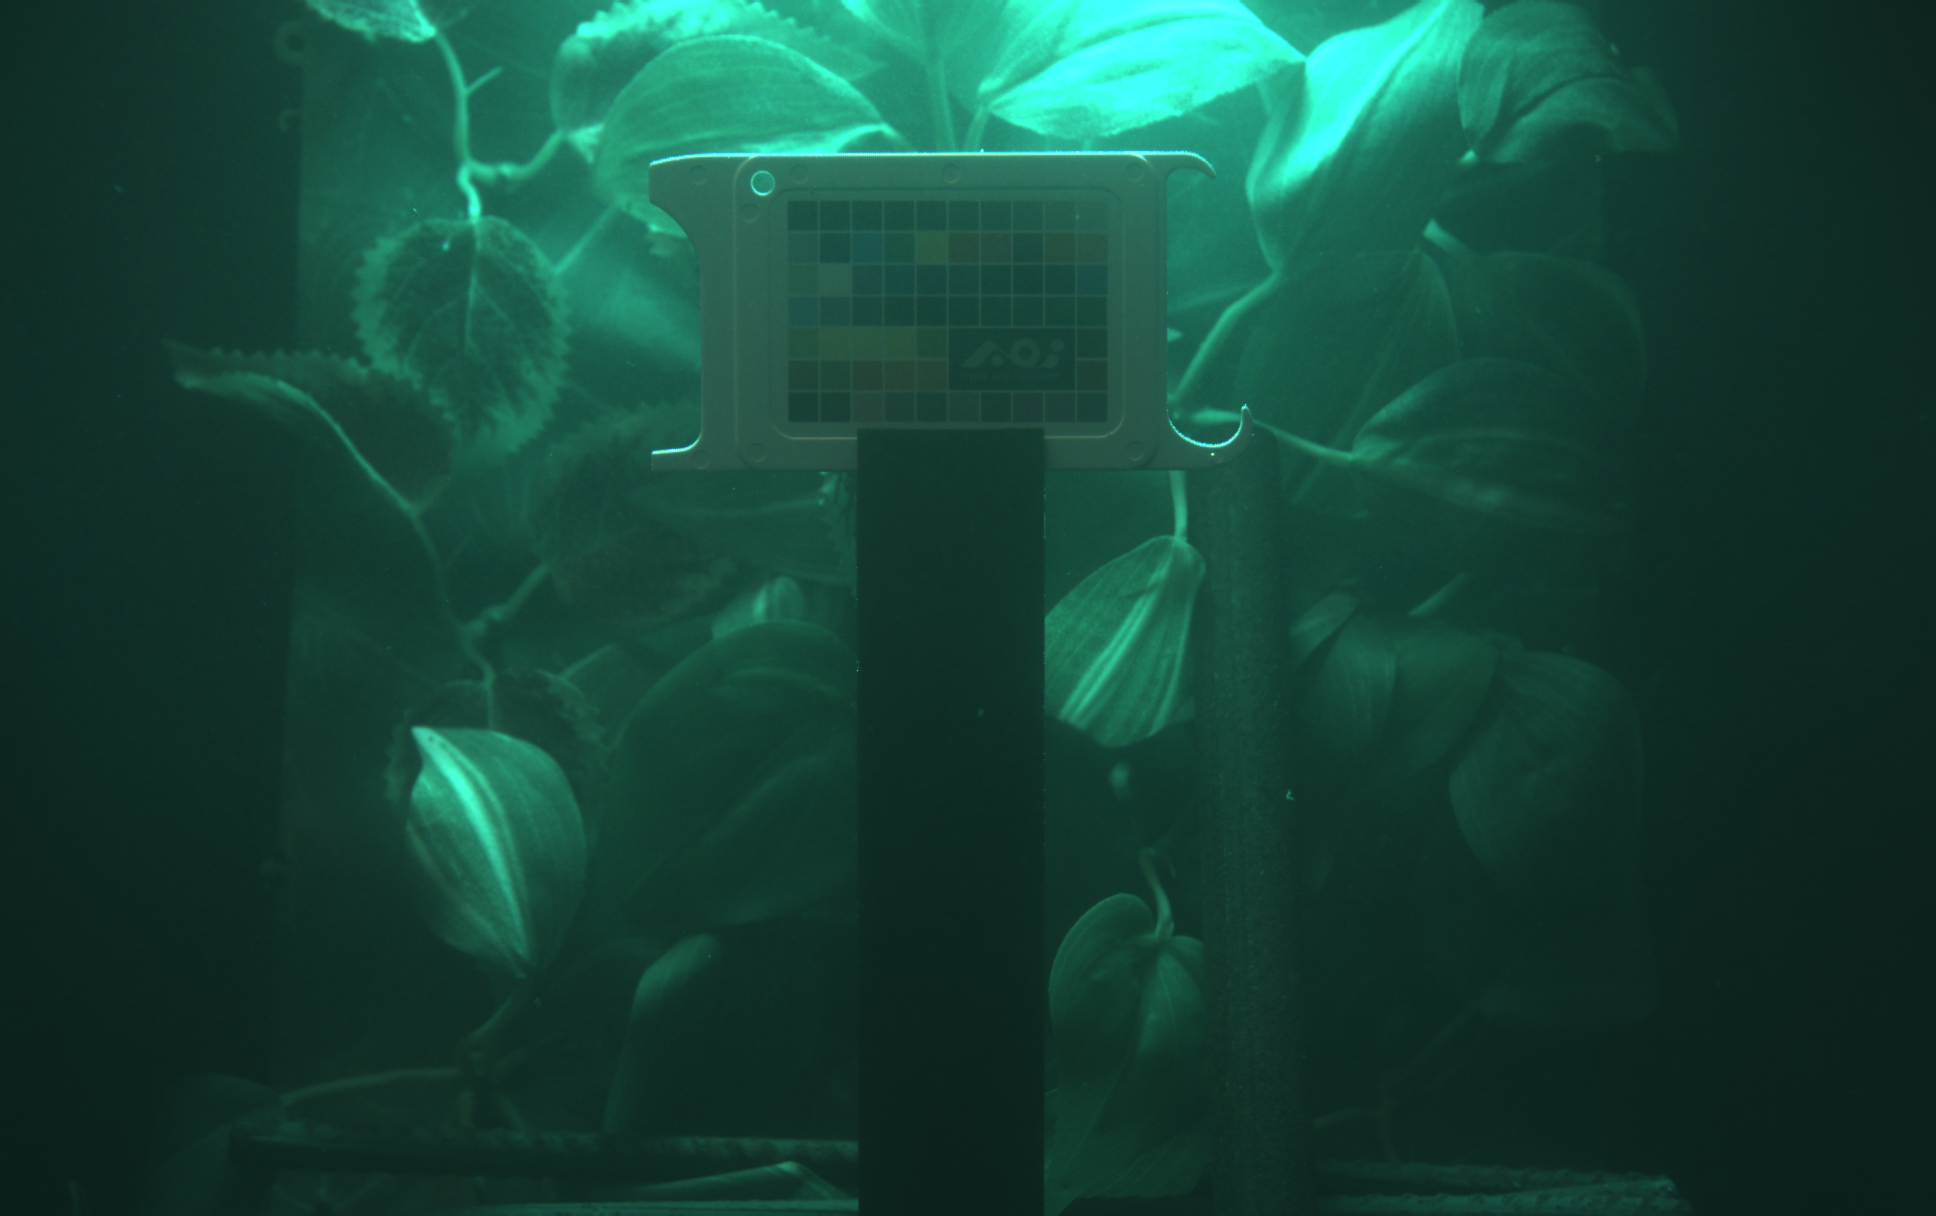
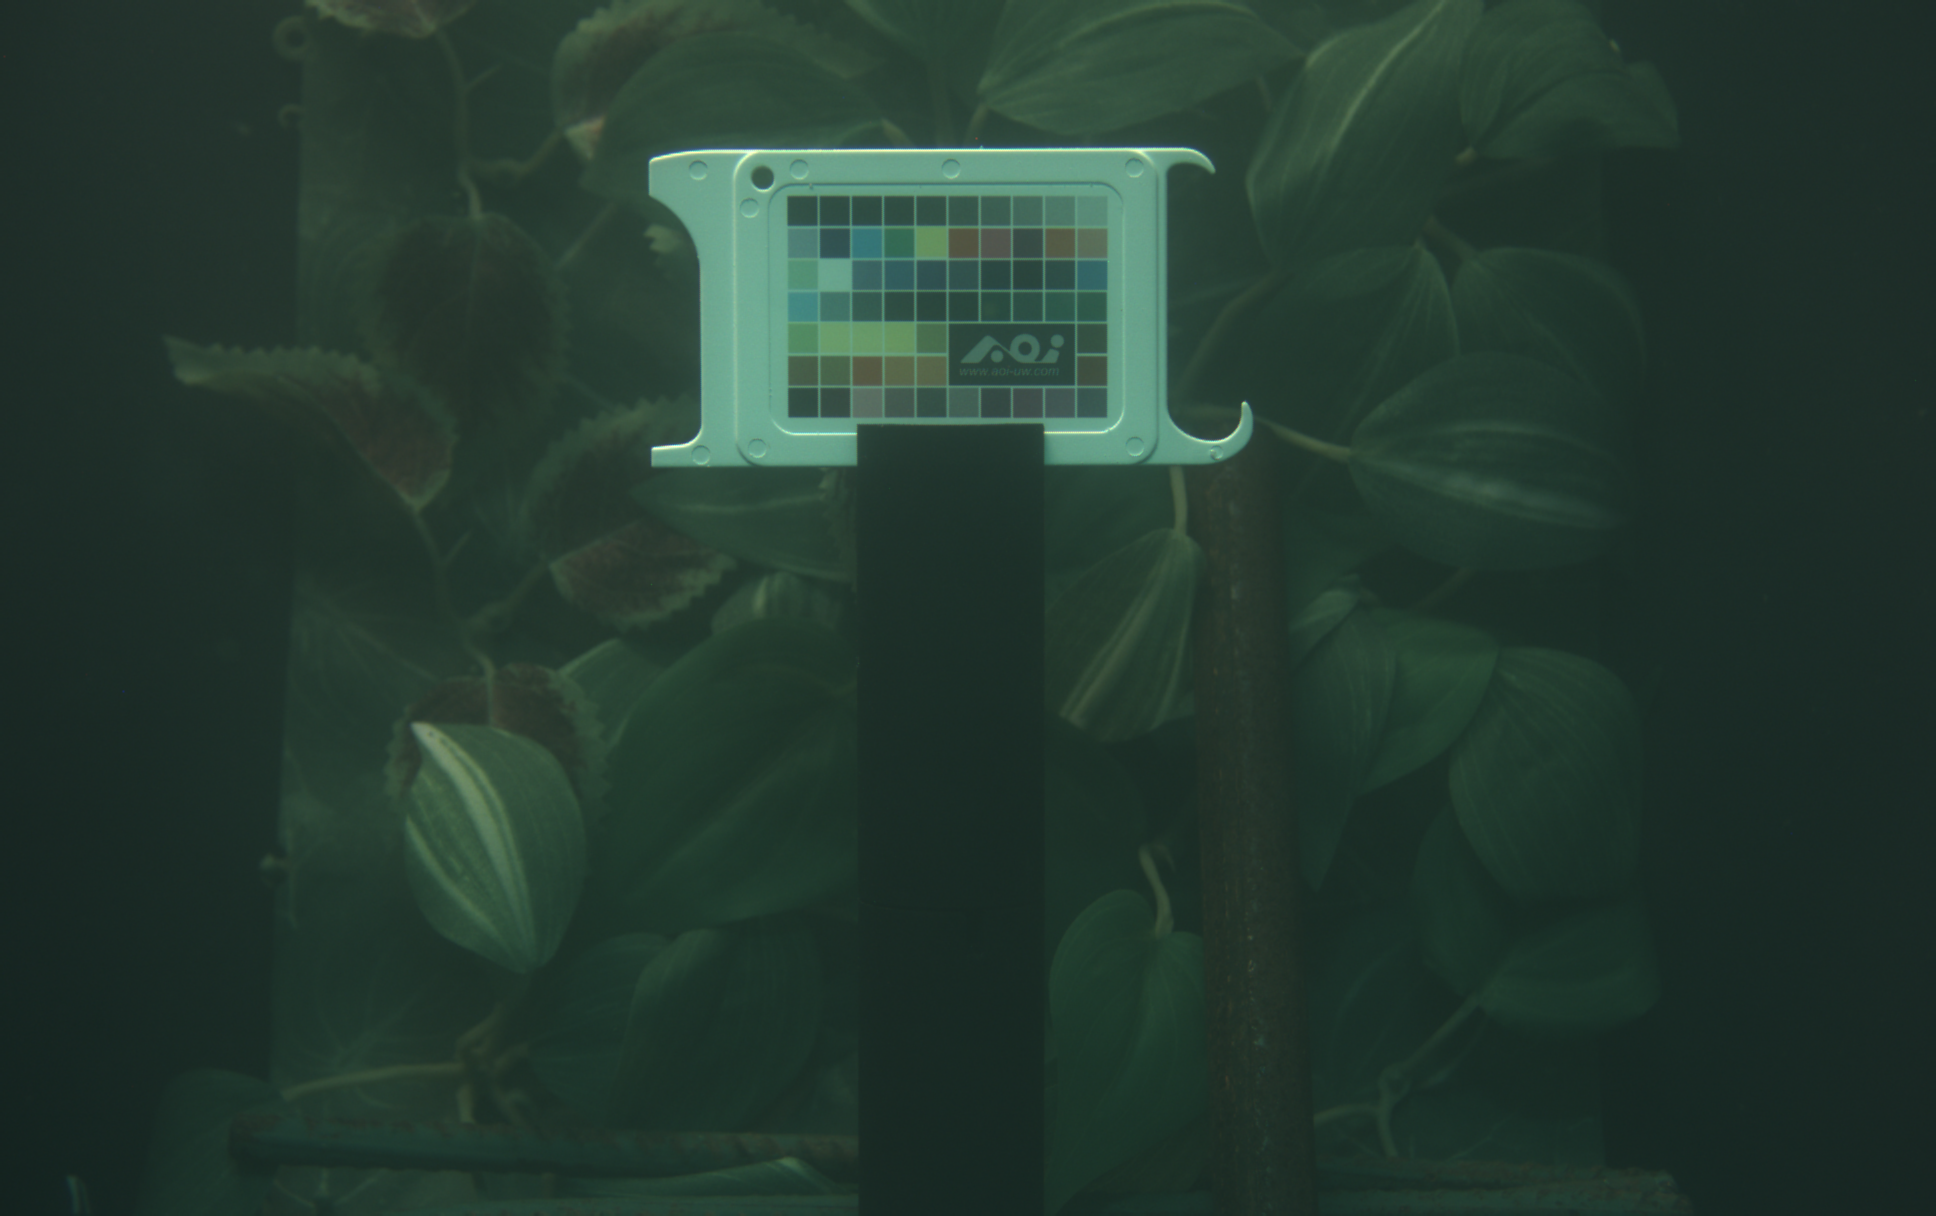
Pictures to report for subjective test

diff --git a/P3/main.py b/P3/main.py
@@ -212,7 +212,7 @@ if __name__ == '__main__':
                         break
                 cv.destroyAllWindows()
     elif test_method == 'folder':
-        folder = 'P3\Results\Data\Gips\Gypsum65g'
+        folder = 'P3\Results\Data\Subjective test\Original'
         workbook, worksheet, ExcelFile = ot.OTDatacollection(folder)
         os.makedirs(f'{folder}/Results', exist_ok=True)
 
@@ -232,10 +232,10 @@ if __name__ == '__main__':
                     corrected_list.append(corrected)
                     
                     #Objective Testing
-                    ot.ObjectiveTesting(file, corrected, image_path, worksheet, dehazed, corrected_checker, pre_dehazed_checker)         
+                    #ot.ObjectiveTesting(file, corrected, image_path, worksheet, dehazed, corrected_checker, pre_dehazed_checker)         
                     
                     timestamp = datetime.now().strftime("%Y%d%m_%H%M%S")
-                    #cv.imwrite(f'{folder}/Results/{file}_Result_{timestamp}_.png', cv.cvtColor(corrected, cv.COLOR_BGR2RGB))
+                    cv.imwrite(f'{folder}/Results/{file}_Result_{timestamp}_.png', cv.cvtColor(corrected, cv.COLOR_BGR2RGB))
 
                 except Exception as e:
                     ot.ObjectiveTestingFail(file, worksheet)
